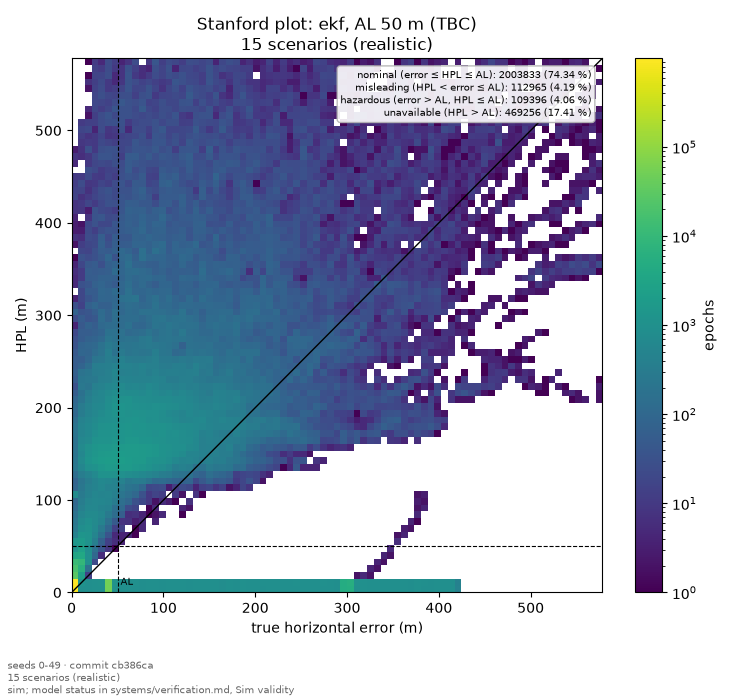
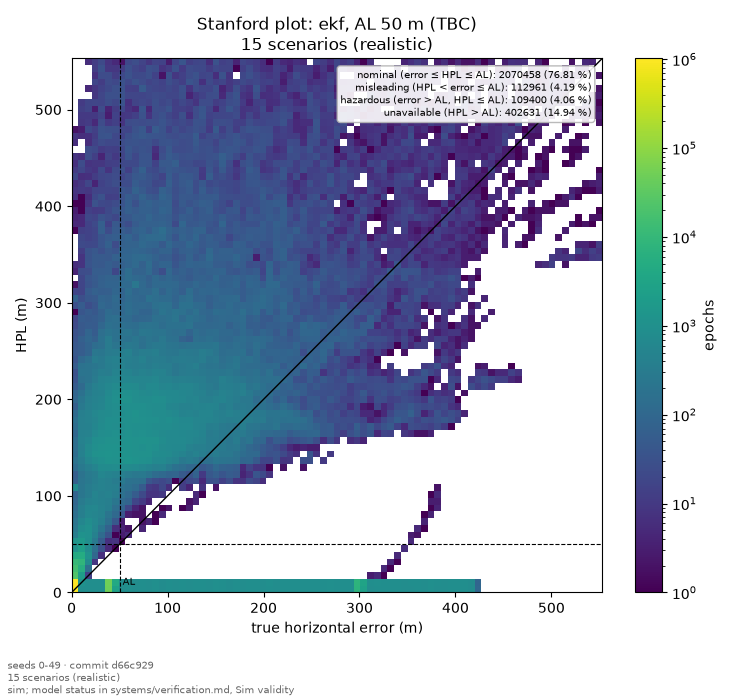
docs(analysis): add the 50-seed results made at main d66c929
`just results 50 ekf 3` on a clean tree at origin/main d66c929: the
results table in systems/verification.md and analysis/results/final/.
Part of #27.

diff --git a/systems/verification.md b/systems/verification.md
@@ -85,7 +85,7 @@ How estimator `ekf-mhss` computes its HPL (REQ-02) and excludes faults (REQ-04).
 ## Results
 
 <!-- results:start -->
-Estimator: `ekf`. Commit `b74010e`, 2026-11-11 16:54. Regenerate with `just results`.
+Estimator: `ekf`. Commit `d66c929`, 2026-11-12 04:34. Regenerate with `just results`.
 
 | Scenario | Runs | H RMSE (m) | Fault H p95 (m) | Fault H max (m) | HPL bounds error | Misleading epochs | Spoof detect (s) | False alarms (/h) |
 | --- | --- | --- | --- | --- | --- | --- | --- | --- |
@@ -114,53 +114,55 @@ Estimator: `ekf`. Commit `b74010e`, 2026-11-11 16:54. Regenerate with `just resu
 | `uc01-drone-circuit-with-base` | 50 | 6.5 | 19.3 | 37.9 | 100.0 % (worst run) | 0 (mean) | — | 0.0 |
 | `uc02-yow-approach` | 50 | 17.9 | 45.6 | 102.9 | 100.0 % (worst run) | 0 (mean) | — | 0.0 |
 | `uc02-yow-approach-adsb` | 50 | 1.7 | nan | nan | 100.0 % (worst run) | 0 (mean) | — | 0.0 |
-| `uc02-yow-approach-adsb-jammed` | 50 | 15.8 | 37.6 | 144.9 | 100.0 % (worst run) | 0 (mean) | — | 0.3 |
+| `uc02-yow-approach-adsb-jammed` | 50 | 15.8 | 37.6 | 144.9 | 100.0 % (worst run) | 0 (mean) | — | 0.0 |
 | `uc02-yow-approach-adsb-spoofed` | 50 | 15.1 | 39.0 | 144.9 | 100.0 % (worst run) | 0 (mean) | — | 12.9 |
 | `uc02-yow-approach-vor` | 50 | 17.3 | 44.1 | 92.8 | 100.0 % (worst run) | 0 (mean) | — | 0.0 |
 | `vehicle-street-grid` | 50 | 13.2 | 38.0 | 76.1 | 97.6 % (worst run) | 4 (mean) | — | 0.0 |
 | `challenge-approach-nominal` | 50 | 1.6 | nan | nan | 100.0 % (worst run) | 0 (mean) | — | 0.0 |
-| `challenge-approach-outage` | 50 | 1705.0 | 3750.9 | 10283.5 | 60.3 % (worst run) | 0 (mean) | — | 3.9 |
+| `challenge-approach-outage` | 50 | 1704.8 | 3750.7 | 10283.5 | 60.3 % (worst run) | 0 (mean) | — | 3.9 |
 | `challenge-approach-spoof-ramp` | 50 | 585.6 | 1082.9 | 1142.8 | 21.2 % (worst run) | 5664 (mean) | — | 0.0 |
 | `challenge-approach-spoof-jump` | 50 | 505.1 | 1148.0 | 3060.8 | 27.0 % (worst run) | 331 (mean) | 1.1 (100 % of runs) | 0.0 |
 | `challenge-approach-time-spoof` | 50 | 1.6 | 2.8 | 5.9 | 100.0 % (worst run) | 0 (mean) | 3.3 (100 % of runs) | 0.0 |
-| `challenge-approach-meaconing` | 50 | 439.2 | 900.4 | 2876.2 | 33.0 % (worst run) | 3746 (mean) | 1.1 (100 % of runs) | 0.0 |
+| `challenge-approach-meaconing` | 50 | 398.9 | 795.9 | 2876.2 | 28.1 % (worst run) | 4454 (mean) | 1.1 (100 % of runs) | 0.0 |
 | `challenge-approach-jamming-zone` | 50 | 91.5 | 247.4 | 1278.5 | 88.1 % (worst run) | 0 (mean) | — | 1.7 |
-| `challenge-approach-outage-tower-clock-step` | 50 | 2881.9 | 6279.1 | 15843.5 | 50.1 % (worst run) | 2 (mean) | — | 4.8 |
-| `challenge-approach-outage-tower-holdover` | 50 | 1886.9 | 4380.9 | 10727.9 | 63.1 % (worst run) | 0 (mean) | — | 4.0 |
-| `challenge-approach-outage-imu-bias` | 50 | 1705.0 | 3886.2 | 10283.5 | 60.3 % (worst run) | 0 (mean) | — | 3.9 |
-| `challenge-approach-outage-baro-drift` | 50 | 1722.0 | 3943.9 | 10174.1 | 60.3 % (worst run) | 0 (mean) | — | 5.0 |
+| `challenge-approach-outage-tower-clock-step` | 50 | 2881.8 | 6279.1 | 15843.5 | 50.1 % (worst run) | 2 (mean) | — | 4.8 |
+| `challenge-approach-outage-tower-holdover` | 50 | 1886.7 | 4380.5 | 10727.9 | 63.1 % (worst run) | 0 (mean) | — | 3.9 |
+| `challenge-approach-outage-imu-bias` | 50 | 1704.8 | 3886.0 | 10283.5 | 60.3 % (worst run) | 0 (mean) | — | 3.9 |
+| `challenge-approach-outage-baro-drift` | 50 | 1706.0 | 3887.8 | 10174.1 | 60.3 % (worst run) | 0 (mean) | — | 4.1 |
 | `challenge-drone-nominal` | 50 | 1.7 | nan | nan | 100.0 % (worst run) | 0 (mean) | — | 0.0 |
-| `challenge-drone-outage` | 50 | 8140.8 | 14176.1 | 46828.0 | 12.8 % (worst run) | 7 (mean) | — | 4.1 |
+| `challenge-drone-outage` | 50 | 8138.7 | 14172.0 | 46828.0 | 12.8 % (worst run) | 7 (mean) | — | 4.0 |
 | `challenge-drone-spoof-ramp` | 50 | 585.6 | 1082.9 | 1143.3 | 21.2 % (worst run) | 5662 (mean) | — | 0.0 |
 | `challenge-drone-spoof-jump` | 50 | 431.4 | 646.5 | 15380.8 | 24.2 % (worst run) | 5244 (mean) | 1.1 (100 % of runs) | 0.0 |
+| `challenge-drone-gps-return` | 50 | 851.4 | 328.5 | 838.2 | 28.6 % (worst run) | 252 (mean) | 1.1 (100 % of runs) | 4.9 |
 | `challenge-drone-time-spoof` | 50 | 1.7 | 2.9 | 6.0 | 100.0 % (worst run) | 0 (mean) | 3.3 (100 % of runs) | 0.0 |
 | `challenge-drone-meaconing` | 50 | 35.5 | 41.9 | 47.1 | 21.3 % (worst run) | 5650 (mean) | 1.1 (100 % of runs) | 0.0 |
-| `challenge-drone-jamming-zone` | 50 | 172.6 | 402.3 | 11428.5 | 62.6 % (worst run) | 23 (mean) | — | 0.6 |
-| `challenge-drone-outage-tower-clock-step` | 50 | 7659.1 | 15091.9 | 54099.7 | 12.8 % (worst run) | 7 (mean) | — | 3.9 |
-| `challenge-drone-outage-tower-holdover` | 50 | 8140.4 | 16108.7 | 55473.7 | 12.8 % (worst run) | 8 (mean) | — | 3.9 |
-| `challenge-drone-outage-imu-bias` | 50 | 8140.8 | 16139.6 | 54190.4 | 12.8 % (worst run) | 7 (mean) | — | 4.1 |
-| `challenge-drone-outage-baro-drift` | 50 | 8243.6 | 16517.1 | 54152.1 | 12.8 % (worst run) | 6 (mean) | — | 5.0 |
+| `challenge-drone-jamming-zone` | 50 | 172.4 | 401.7 | 11428.5 | 62.6 % (worst run) | 22 (mean) | — | 0.5 |
+| `challenge-drone-outage-tower-clock-step` | 50 | 7657.0 | 15087.7 | 54099.7 | 12.8 % (worst run) | 7 (mean) | — | 3.8 |
+| `challenge-drone-outage-tower-holdover` | 50 | 8138.4 | 16104.6 | 55473.7 | 12.8 % (worst run) | 8 (mean) | — | 3.8 |
+| `challenge-drone-outage-imu-bias` | 50 | 8138.7 | 16135.5 | 54190.4 | 12.8 % (worst run) | 7 (mean) | — | 4.0 |
+| `challenge-drone-outage-baro-drift` | 50 | 8093.4 | 16093.5 | 54152.1 | 12.8 % (worst run) | 6 (mean) | — | 3.7 |
 | `challenge-drone-hop-nominal` | 50 | 1.7 | nan | nan | 100.0 % (worst run) | 0 (mean) | — | 0.0 |
 | `challenge-drone-hop-outage` | 50 | 8544.3 | 14647.2 | 37160.0 | 10.0 % (worst run) | 23 (mean) | — | 3.6 |
 | `challenge-drone-hop-spoof-ramp` | 50 | 585.6 | 1082.9 | 1143.3 | 21.2 % (worst run) | 5662 (mean) | — | 0.0 |
 | `challenge-drone-hop-spoof-jump` | 50 | 960.9 | 1795.1 | 28597.2 | 21.7 % (worst run) | 4621 (mean) | 1.1 (100 % of runs) | 0.0 |
+| `challenge-drone-hop-gps-return` | 50 | 1160.6 | 353.6 | 899.1 | 21.7 % (worst run) | 217 (mean) | 1.1 (100 % of runs) | 4.3 |
 | `challenge-drone-hop-time-spoof` | 50 | 1.7 | 2.9 | 5.8 | 100.0 % (worst run) | 0 (mean) | 3.3 (100 % of runs) | 0.0 |
 | `challenge-drone-hop-meaconing` | 50 | 359.7 | 725.0 | 28597.2 | 21.3 % (worst run) | 5428 (mean) | 1.1 (100 % of runs) | 0.0 |
 | `challenge-drone-hop-jamming-zone` | 50 | 754.5 | 1454.5 | 39088.8 | 2.5 % (worst run) | 28 (mean) | — | 0.9 |
-| `challenge-drone-hop-outage-tower-clock-step` | 50 | 8666.7 | 16986.2 | 43100.6 | 10.0 % (worst run) | 20 (mean) | — | 3.7 |
+| `challenge-drone-hop-outage-tower-clock-step` | 50 | 8666.7 | 16986.1 | 43100.6 | 10.0 % (worst run) | 20 (mean) | — | 3.7 |
 | `challenge-drone-hop-outage-tower-holdover` | 50 | 7770.9 | 15016.4 | 42919.6 | 10.0 % (worst run) | 20 (mean) | — | 3.7 |
-| `challenge-drone-hop-outage-imu-bias` | 50 | 8544.3 | 16758.6 | 43100.6 | 10.0 % (worst run) | 23 (mean) | — | 3.6 |
-| `challenge-drone-hop-outage-baro-drift` | 50 | 8461.6 | 16659.1 | 43092.3 | 10.0 % (worst run) | 22 (mean) | — | 5.0 |
+| `challenge-drone-hop-outage-imu-bias` | 50 | 8544.3 | 16758.7 | 43100.6 | 10.0 % (worst run) | 23 (mean) | — | 3.6 |
+| `challenge-drone-hop-outage-baro-drift` | 50 | 8275.0 | 16156.8 | 43092.3 | 10.0 % (worst run) | 22 (mean) | — | 3.5 |
 | `challenge-timing-nominal` | 50 | 1.6 | nan | nan | 100.0 % (worst run) | 0 (mean) | — | 0.0 |
-| `challenge-timing-outage` | 50 | 6259.6 | 11041.3 | 36429.7 | 14.0 % (worst run) | 0 (mean) | — | 3.2 |
+| `challenge-timing-outage` | 50 | 6275.7 | 11072.5 | 36429.7 | 14.0 % (worst run) | 0 (mean) | — | 3.2 |
 | `challenge-timing-spoof-ramp` | 50 | 585.6 | 1082.9 | 1142.8 | 21.2 % (worst run) | 5664 (mean) | — | 0.0 |
 | `challenge-timing-spoof-jump` | 50 | 305.7 | 455.1 | 5755.9 | 23.7 % (worst run) | 5317 (mean) | 1.1 (100 % of runs) | 0.0 |
 | `challenge-timing-time-spoof` | 50 | 1.6 | 2.8 | 5.8 | 100.0 % (worst run) | 0 (mean) | 3.3 (100 % of runs) | 0.0 |
 | `challenge-timing-meaconing` | 50 | 1.6 | 2.8 | 5.8 | 100.0 % (worst run) | 0 (mean) | 1.1 (100 % of runs) | 0.0 |
-| `challenge-timing-outage-tower-clock-step` | 50 | 6293.7 | 12396.4 | 35206.2 | 13.8 % (worst run) | 0 (mean) | — | 3.2 |
-| `challenge-timing-outage-tower-holdover` | 50 | 6222.0 | 12364.4 | 37092.1 | 18.9 % (worst run) | 0 (mean) | — | 3.2 |
-| `challenge-timing-outage-imu-bias` | 50 | 6259.6 | 12600.2 | 41169.0 | 14.0 % (worst run) | 0 (mean) | — | 3.2 |
-| `challenge-timing-outage-baro-drift` | 50 | 6738.7 | 13339.8 | 41220.3 | 14.0 % (worst run) | 0 (mean) | — | 5.0 |
+| `challenge-timing-outage-tower-clock-step` | 50 | 6310.1 | 12439.8 | 35206.2 | 13.8 % (worst run) | 0 (mean) | — | 3.2 |
+| `challenge-timing-outage-tower-holdover` | 50 | 6238.2 | 12407.4 | 37092.1 | 18.9 % (worst run) | 0 (mean) | — | 3.2 |
+| `challenge-timing-outage-imu-bias` | 50 | 6275.7 | 12643.0 | 41169.0 | 14.0 % (worst run) | 0 (mean) | — | 3.2 |
+| `challenge-timing-outage-baro-drift` | 50 | 6481.7 | 12978.6 | 41220.3 | 14.0 % (worst run) | 0 (mean) | — | 3.2 |
 | `easy-nominal` | 50 | 1.7 | nan | nan | 100.0 % (worst run) | 0 (mean) | — | 0.0 |
 | `easy-outage` | 50 | 7.4 | 22.2 | 59.9 | 100.0 % (worst run) | 0 (mean) | — | 0.0 |
 | `easy-gps-no-fix` | 50 | 7.4 | 22.2 | 59.9 | 100.0 % (worst run) | 0 (mean) | — | 0.0 |
@@ -171,7 +173,7 @@ Estimator: `ekf`. Commit `b74010e`, 2026-11-11 16:54. Regenerate with `just resu
 | `easy-time-spoof` | 50 | 1.7 | 2.9 | 5.6 | 100.0 % (worst run) | 0 (mean) | 3.2 (100 % of runs) | 0.0 |
 | `easy-meaconing` | 50 | 29.7 | 41.7 | 46.6 | 42.9 % (worst run) | 1996 (mean) | 1.1 (100 % of runs) | 0.0 |
 | `easy-jamming-zone` | 50 | 6.1 | 12.8 | 85.4 | 100.0 % (worst run) | 0 (mean) | — | 0.0 |
-| `easy-baro-drift` | 50 | 7.2 | 18.1 | 39.7 | 100.0 % (worst run) | 0 (mean) | — | 85.6 |
+| `easy-baro-drift` | 50 | 1.7 | 2.9 | 5.6 | 100.0 % (worst run) | 0 (mean) | — | 0.0 |
 | `easy-tower-loss` | 50 | 1.7 | 2.9 | 5.6 | 100.0 % (worst run) | 0 (mean) | — | 0.0 |
 | `easy-tower-clock-step` | 50 | 1.7 | 2.9 | 5.6 | 100.0 % (worst run) | 0 (mean) | — | 0.0 |
 | `easy-long-outage` | 50 | 11.7 | 22.6 | 65.7 | 100.0 % (worst run) | 0 (mean) | — | 0.0 |
@@ -186,7 +188,7 @@ Estimator: `ekf`. Commit `b74010e`, 2026-11-11 16:54. Regenerate with `just resu
 | `realistic-time-spoof` | 50 | 1.7 | 3.0 | 5.7 | 100.0 % (worst run) | 0 (mean) | 3.2 (100 % of runs) | 0.0 |
 | `realistic-meaconing` | 50 | 30.7 | 45.4 | 244.6 | 42.7 % (worst run) | 2041 (mean) | 1.1 (100 % of runs) | 0.0 |
 | `realistic-jamming-zone` | 50 | 19.5 | 47.5 | 226.5 | 94.4 % (worst run) | 0 (mean) | — | 0.4 |
-| `realistic-baro-drift` | 50 | 71.8 | 200.8 | 976.2 | 78.1 % (worst run) | 0 (mean) | — | 78.2 |
+| `realistic-baro-drift` | 50 | 1.7 | 3.0 | 5.7 | 100.0 % (worst run) | 0 (mean) | — | 0.0 |
 | `realistic-tower-loss` | 50 | 1.7 | 2.9 | 5.6 | 100.0 % (worst run) | 0 (mean) | — | 0.0 |
 | `realistic-tower-clock-step` | 50 | 1.7 | 3.0 | 5.6 | 100.0 % (worst run) | 0 (mean) | — | 0.0 |
 | `realistic-long-outage` | 50 | 154.4 | 331.7 | 906.2 | 69.2 % (worst run) | 0 (mean) | — | 0.0 |
@@ -201,7 +203,7 @@ Estimator: `ekf`. Commit `b74010e`, 2026-11-11 16:54. Regenerate with `just resu
 | `realistic-with-base-time-spoof` | 50 | 1.7 | 3.0 | 5.7 | 100.0 % (worst run) | 0 (mean) | 3.2 (100 % of runs) | 0.0 |
 | `realistic-with-base-meaconing` | 50 | 30.7 | 45.4 | 244.6 | 42.7 % (worst run) | 2041 (mean) | 1.1 (100 % of runs) | 0.0 |
 | `realistic-with-base-jamming-zone` | 50 | 19.5 | 47.5 | 226.5 | 94.4 % (worst run) | 0 (mean) | — | 0.4 |
-| `realistic-with-base-baro-drift` | 50 | 71.8 | 200.8 | 976.2 | 78.1 % (worst run) | 0 (mean) | — | 78.2 |
+| `realistic-with-base-baro-drift` | 50 | 1.7 | 3.0 | 5.7 | 100.0 % (worst run) | 0 (mean) | — | 0.0 |
 | `realistic-with-base-tower-loss` | 50 | 1.7 | 2.9 | 5.6 | 100.0 % (worst run) | 0 (mean) | — | 0.0 |
 | `realistic-with-base-tower-clock-step` | 50 | 1.7 | 3.0 | 5.6 | 100.0 % (worst run) | 0 (mean) | — | 0.0 |
 | `realistic-with-base-long-outage` | 50 | 154.4 | 331.7 | 906.2 | 69.2 % (worst run) | 0 (mean) | — | 0.0 |
@@ -220,7 +222,7 @@ Estimator: `ekf`. Commit `b74010e`, 2026-11-11 16:54. Regenerate with `just resu
 | `worst-time-spoof` | 50 | 1.7 | 3.0 | 5.7 | 100.0 % (worst run) | 0 (mean) | 3.2 (100 % of runs) | 0.0 |
 | `worst-meaconing` | 50 | 30.2 | 42.0 | 54.6 | 42.7 % (worst run) | 2043 (mean) | 1.1 (100 % of runs) | 0.0 |
 | `worst-jamming-zone` | 50 | 103.3 | 212.4 | 2541.9 | 46.6 % (worst run) | 0 (mean) | — | 3.3 |
-| `worst-baro-drift` | 50 | 394.6 | 1058.1 | 3260.0 | 66.7 % (worst run) | 0 (mean) | — | 77.2 |
+| `worst-baro-drift` | 50 | 1.7 | 3.0 | 5.6 | 100.0 % (worst run) | 0 (mean) | — | 0.0 |
 | `worst-tower-loss` | 50 | 1.7 | 2.9 | 5.6 | 100.0 % (worst run) | 0 (mean) | — | 0.0 |
 | `worst-tower-clock-step` | 50 | 1.7 | 3.0 | 5.6 | 100.0 % (worst run) | 0 (mean) | — | 0.0 |
 | `worst-long-outage` | 50 | 1063.3 | 2067.9 | 5465.2 | 27.2 % (worst run) | 0 (mean) | — | 0.0 |
@@ -244,11 +246,11 @@ Report card. Alert limits (TBC): position 50 m, time 1.5 µs. Hazardous: error o
 | `ottawa-towers` | jamming / denial | 0 | — | — | 1.9 / 1.9 (100 % of runs) | 0 (3 / 0) |
 | `p12-drone-map-handoff` | none | 0 | 100.0 % | 0 / 0 | — | — |
 | `p12-drone-map-handoff-spoof-jump` | position spoof | 2278 | 100.0 % | 0 / 0 | 0.1 / 0.1 (100 % of runs) | 1 (1 / —), recovery untested |
-| `p12-drone-map-handoff-spoof-ramp` | position spoof | 4850 | 100.0 % | 0 / 0 | 68.6 / 459.7 (96 % of runs) | 1 (1 / —), recovery untested |
+| `p12-drone-map-handoff-spoof-ramp` | position spoof | 4850 | 100.0 % | 0 / 0 | 86.8 / 459.7 (96 % of runs) | 1 (1 / —), recovery untested |
 | `residual-map` | jamming / denial | 5 | — | — | 1.9 / 1.9 (100 % of runs) | 0 (1 / 0) |
 | `spoof-jump` | position spoof | 0 | — | — | 0.1 / 0.1 (100 % of runs) | 1 (1 / —), recovery untested |
 | `spoof-jump-sky` | position spoof, sky spoof (advisory check) | 0 | — | — | 0.1 / 0.1 (100 % of runs) | 1 (1 / —), recovery untested |
-| `spoof-ramp` | position spoof | 1621 | — | — | 27.0 / 126.7 (100 % of runs) | 1 (1 / —), recovery untested |
+| `spoof-ramp` | position spoof | 1621 | — | — | 31.2 / 175.7 (100 % of runs) | 1 (1 / —), recovery untested |
 | `starlink-outage` | jamming / denial | 0 | — | — | 1.9 / 1.9 (100 % of runs) | 0 (3 / 0) |
 | `time-spoof` | time spoof | 0 | 98.5 % | 5 / 0 | 1.5 / 2.5 (100 % of runs) | 3 (— / 3), recovery untested |
 | `uc01-drone-circuit` | jamming / denial | 0 | — | — | 1.9 / 1.9 (100 % of runs) | 0 (3 / 0) |
@@ -260,61 +262,63 @@ Report card. Alert limits (TBC): position 50 m, time 1.5 µs. Hazardous: error o
 | `uc02-yow-approach-vor` | jamming / denial | 0 | — | — | 1.9 / 1.9 (100 % of runs) | 0 (2 / 0), recovery untested |
 | `vehicle-street-grid` | jamming / denial | 1 | — | — | 1.9 / 1.9 (100 % of runs) | 0 (1 / 0) |
 | `challenge-approach-nominal` | none | 0 | 100.0 % | 0 / 0 | — | — |
-| `challenge-approach-outage` | jamming / denial | 0 | 69.0 % | 22 / 19 | 1.9 / 1.9 (98 % of runs) | 0 (0 / 0) |
-| `challenge-approach-spoof-ramp` | position spoof | 5450 | 100.0 % | 0 / 0 | 71.0 / 422.5 (96 % of runs) | 1 (1 / —), recovery untested |
+| `challenge-approach-outage` | jamming / denial | 0 | 69.0 % | 22 / 19 | 1.9 / 1.9 (100 % of runs) | 0 (0 / 0) |
+| `challenge-approach-spoof-ramp` | position spoof | 5450 | 100.0 % | 0 / 0 | 77.3 / 422.5 (96 % of runs) | 1 (1 / —), recovery untested |
 | `challenge-approach-spoof-jump` | position spoof | 331 | 100.0 % | 0 / 0 | 0.1 / 0.1 (100 % of runs) | 1 (1 / —), recovery untested |
-| `challenge-approach-time-spoof` | time spoof | 0 | 51.3 % | 801 / 0 | 1.5 / 2.5 (100 % of runs) | 3 (— / 3), recovery untested |
-| `challenge-approach-meaconing` | meaconing / replay | 3746 | 33.0 % | 4116 / 72 | 0.1 / 0.1 (100 % of runs) | 1 (1 / 1), recovery untested |
+| `challenge-approach-time-spoof` | time spoof | 0 | 51.2 % | 801 / 0 | 1.5 / 2.5 (100 % of runs) | 3 (— / 3), recovery untested |
+| `challenge-approach-meaconing` | meaconing / replay | 4454 | 28.4 % | 4476 / 7 | 0.1 / 0.1 (100 % of runs) | 1 (1 / 1), recovery untested |
 | `challenge-approach-jamming-zone` | jamming / denial | 0 | 100.0 % | 0 / 0 | — | 2 (2 / 3), recovery untested |
-| `challenge-approach-outage-tower-clock-step` | SoOP fault, jamming / denial | 0 | 65.0 % | 106 / 102 | 1.9 / 1.9 (98 % of runs) | 1 (1 / 1), recovery untested |
-| `challenge-approach-outage-tower-holdover` | SoOP fault, jamming / denial | 0 | 69.7 % | 24 / 12 | 1.9 / 484.5 (100 % of runs) | 1 (2 / 1), recovery untested |
-| `challenge-approach-outage-imu-bias` | jamming / denial, sensor degradation | 0 | 69.0 % | 22 / 19 | 1.9 / 1.9 (98 % of runs) | 1 (2 / 1), recovery untested |
-| `challenge-approach-outage-baro-drift` | jamming / denial, sensor degradation | 0 | 69.0 % | 20 / 20 | 1.9 / 1.9 (98 % of runs) | 1 (2 / 1), recovery untested |
+| `challenge-approach-outage-tower-clock-step` | SoOP fault, jamming / denial | 0 | 65.0 % | 106 / 102 | 1.9 / 1.9 (100 % of runs) | 1 (1 / 1), recovery untested |
+| `challenge-approach-outage-tower-holdover` | SoOP fault, jamming / denial | 0 | 69.7 % | 24 / 12 | 1.9 / 1.9 (100 % of runs) | 1 (2 / 1), recovery untested |
+| `challenge-approach-outage-imu-bias` | jamming / denial, sensor degradation | 0 | 69.0 % | 22 / 19 | 1.9 / 1.9 (100 % of runs) | 1 (2 / 1), recovery untested |
+| `challenge-approach-outage-baro-drift` | jamming / denial, sensor degradation | 0 | 69.0 % | 20 / 17 | 1.9 / 1.9 (100 % of runs) | 1 (2 / 1), recovery untested |
 | `challenge-drone-nominal` | none | 0 | 100.0 % | 0 / 0 | — | — |
-| `challenge-drone-outage` | jamming / denial | 6 | 100.0 % | 0 / 0 | 1.9 / 1.9 (98 % of runs) | 0 (0 / 2) |
-| `challenge-drone-spoof-ramp` | position spoof | 5449 | 100.0 % | 0 / 0 | 78.9 / 562.3 (98 % of runs) | 1 (1 / —), recovery untested |
+| `challenge-drone-outage` | jamming / denial | 6 | 100.0 % | 0 / 0 | 1.9 / 1.9 (100 % of runs) | 0 (0 / 2) |
+| `challenge-drone-spoof-ramp` | position spoof | 5449 | 100.0 % | 0 / 0 | 83.4 / 562.3 (96 % of runs) | 1 (1 / —), recovery untested |
 | `challenge-drone-spoof-jump` | position spoof | 5244 | 100.0 % | 0 / 0 | 0.1 / 0.1 (100 % of runs) | 1 (1 / —), recovery untested |
+| `challenge-drone-gps-return` | position spoof | 252 | 100.0 % | 0 / 0 | 0.1 / 0.1 (100 % of runs) | 0 (0 / —) |
 | `challenge-drone-time-spoof` | time spoof | 0 | 98.5 % | 15 / 0 | 1.5 / 2.5 (100 % of runs) | 2 (— / 2), recovery untested |
 | `challenge-drone-meaconing` | meaconing / replay | 0 | 100.0 % | 0 / 0 | 0.1 / 0.1 (100 % of runs) | 3 (3 / 3), recovery untested |
-| `challenge-drone-jamming-zone` | jamming / denial | 10 | 100.0 % | 0 / 0 | — | 1 (1 / 3), recovery untested |
-| `challenge-drone-outage-tower-clock-step` | SoOP fault, jamming / denial | 6 | 100.0 % | 0 / 0 | 1.9 / 484.5 (100 % of runs) | 1 (1 / 2), recovery untested |
-| `challenge-drone-outage-tower-holdover` | SoOP fault, jamming / denial | 7 | 100.0 % | 0 / 0 | 1.9 / 484.5 (100 % of runs) | 1 (1 / 2), recovery untested |
-| `challenge-drone-outage-imu-bias` | jamming / denial, sensor degradation | 6 | 100.0 % | 0 / 0 | 1.9 / 484.5 (100 % of runs) | 1 (1 / 2), recovery untested |
-| `challenge-drone-outage-baro-drift` | jamming / denial, sensor degradation | 6 | 100.0 % | 0 / 0 | 1.9 / 1.9 (98 % of runs) | 1 (1 / 2), recovery untested |
+| `challenge-drone-jamming-zone` | jamming / denial | 8 | 100.0 % | 0 / 0 | — | 1 (1 / 3), recovery untested |
+| `challenge-drone-outage-tower-clock-step` | SoOP fault, jamming / denial | 6 | 100.0 % | 0 / 0 | 1.9 / 1.9 (100 % of runs) | 1 (1 / 2), recovery untested |
+| `challenge-drone-outage-tower-holdover` | SoOP fault, jamming / denial | 7 | 100.0 % | 0 / 0 | 1.9 / 1.9 (100 % of runs) | 1 (1 / 2), recovery untested |
+| `challenge-drone-outage-imu-bias` | jamming / denial, sensor degradation | 6 | 100.0 % | 0 / 0 | 1.9 / 1.9 (100 % of runs) | 1 (1 / 2), recovery untested |
+| `challenge-drone-outage-baro-drift` | jamming / denial, sensor degradation | 6 | 100.0 % | 0 / 0 | 1.9 / 1.9 (100 % of runs) | 1 (1 / 2), recovery untested |
 | `challenge-drone-hop-nominal` | none | 0 | 100.0 % | 0 / 0 | — | — |
-| `challenge-drone-hop-outage` | jamming / denial | 22 | 100.0 % | 0 / 0 | 1.9 / 1.9 (98 % of runs) | 0 (0 / 2) |
-| `challenge-drone-hop-spoof-ramp` | position spoof | 5449 | 100.0 % | 0 / 0 | 78.9 / 562.3 (98 % of runs) | 1 (1 / —), recovery untested |
+| `challenge-drone-hop-outage` | jamming / denial | 22 | 100.0 % | 0 / 0 | 1.9 / 1.9 (100 % of runs) | 0 (0 / 2) |
+| `challenge-drone-hop-spoof-ramp` | position spoof | 5449 | 100.0 % | 0 / 0 | 83.4 / 562.3 (96 % of runs) | 1 (1 / —), recovery untested |
 | `challenge-drone-hop-spoof-jump` | position spoof | 4620 | 100.0 % | 0 / 0 | 0.1 / 0.1 (100 % of runs) | 1 (1 / —), recovery untested |
+| `challenge-drone-hop-gps-return` | position spoof | 217 | 100.0 % | 0 / 0 | 0.1 / 0.1 (100 % of runs) | 0 (0 / —) |
 | `challenge-drone-hop-time-spoof` | time spoof | 0 | 98.5 % | 15 / 0 | 1.5 / 2.5 (100 % of runs) | 2 (— / 2), recovery untested |
 | `challenge-drone-hop-meaconing` | meaconing / replay | 4 | 100.0 % | 0 / 0 | 0.1 / 0.1 (100 % of runs) | 1 (1 / 3), recovery untested |
 | `challenge-drone-hop-jamming-zone` | jamming / denial | 21 | 100.0 % | 0 / 0 | — | 1 (1 / 3), recovery untested |
-| `challenge-drone-hop-outage-tower-clock-step` | SoOP fault, jamming / denial | 20 | 100.0 % | 0 / 0 | 1.9 / 1.9 (98 % of runs) | 1 (1 / 2), recovery untested |
-| `challenge-drone-hop-outage-tower-holdover` | SoOP fault, jamming / denial | 20 | 100.0 % | 0 / 0 | 1.9 / 1.9 (98 % of runs) | 1 (1 / 2), recovery untested |
-| `challenge-drone-hop-outage-imu-bias` | jamming / denial, sensor degradation | 22 | 100.0 % | 0 / 0 | 1.9 / 1.9 (98 % of runs) | 1 (1 / 2), recovery untested |
-| `challenge-drone-hop-outage-baro-drift` | jamming / denial, sensor degradation | 21 | 100.0 % | 0 / 0 | 1.9 / 1.9 (98 % of runs) | 1 (1 / 2), recovery untested |
+| `challenge-drone-hop-outage-tower-clock-step` | SoOP fault, jamming / denial | 20 | 100.0 % | 0 / 0 | 1.9 / 1.9 (100 % of runs) | 1 (1 / 2), recovery untested |
+| `challenge-drone-hop-outage-tower-holdover` | SoOP fault, jamming / denial | 20 | 100.0 % | 0 / 0 | 1.9 / 1.9 (100 % of runs) | 1 (1 / 2), recovery untested |
+| `challenge-drone-hop-outage-imu-bias` | jamming / denial, sensor degradation | 22 | 100.0 % | 0 / 0 | 1.9 / 1.9 (100 % of runs) | 1 (1 / 2), recovery untested |
+| `challenge-drone-hop-outage-baro-drift` | jamming / denial, sensor degradation | 21 | 100.0 % | 0 / 0 | 1.9 / 1.9 (100 % of runs) | 1 (1 / 2), recovery untested |
 | `challenge-timing-nominal` | none | 0 | 100.0 % | 0 / 0 | — | — |
-| `challenge-timing-outage` | jamming / denial | 0 | 100.0 % | 0 / 0 | 1.9 / 1.9 (98 % of runs) | 0 (0 / 2) |
-| `challenge-timing-spoof-ramp` | position spoof | 5450 | 100.0 % | 0 / 0 | 78.9 / 562.3 (98 % of runs) | 1 (1 / —), recovery untested |
+| `challenge-timing-outage` | jamming / denial | 0 | 100.0 % | 0 / 0 | 1.9 / 1.9 (100 % of runs) | 0 (0 / 2) |
+| `challenge-timing-spoof-ramp` | position spoof | 5450 | 100.0 % | 0 / 0 | 88.4 / 562.3 (96 % of runs) | 1 (1 / —), recovery untested |
 | `challenge-timing-spoof-jump` | position spoof | 5317 | 100.0 % | 0 / 0 | 0.1 / 0.1 (100 % of runs) | 1 (1 / —), recovery untested |
 | `challenge-timing-time-spoof` | time spoof | 0 | 98.5 % | 15 / 0 | 1.5 / 2.5 (100 % of runs) | 2 (— / 2), recovery untested |
 | `challenge-timing-meaconing` | meaconing / replay | 0 | 100.0 % | 0 / 0 | 0.1 / 0.1 (100 % of runs) | 3 (4 / 3), recovery untested |
-| `challenge-timing-outage-tower-clock-step` | SoOP fault, jamming / denial | 0 | 100.0 % | 0 / 0 | 1.9 / 1.9 (98 % of runs) | 1 (1 / 2), recovery untested |
-| `challenge-timing-outage-tower-holdover` | SoOP fault, jamming / denial | 0 | 100.0 % | 0 / 0 | 1.9 / 1.9 (98 % of runs) | 1 (1 / 2), recovery untested |
-| `challenge-timing-outage-imu-bias` | jamming / denial, sensor degradation | 0 | 100.0 % | 0 / 0 | 1.9 / 1.9 (98 % of runs) | 1 (1 / 2), recovery untested |
-| `challenge-timing-outage-baro-drift` | jamming / denial, sensor degradation | 0 | 100.0 % | 0 / 0 | 1.9 / 1.9 (98 % of runs) | 1 (1 / 2), recovery untested |
+| `challenge-timing-outage-tower-clock-step` | SoOP fault, jamming / denial | 0 | 100.0 % | 0 / 0 | 1.9 / 1.9 (100 % of runs) | 1 (1 / 2), recovery untested |
+| `challenge-timing-outage-tower-holdover` | SoOP fault, jamming / denial | 0 | 100.0 % | 0 / 0 | 1.9 / 1.9 (100 % of runs) | 1 (1 / 2), recovery untested |
+| `challenge-timing-outage-imu-bias` | jamming / denial, sensor degradation | 0 | 100.0 % | 0 / 0 | 1.9 / 1.9 (100 % of runs) | 1 (1 / 2), recovery untested |
+| `challenge-timing-outage-baro-drift` | jamming / denial, sensor degradation | 0 | 100.0 % | 0 / 0 | 1.9 / 1.9 (100 % of runs) | 1 (1 / 2), recovery untested |
 | `easy-nominal` | none | 0 | 100.0 % | 0 / 0 | — | — |
 | `easy-outage` | jamming / denial | 0 | 100.0 % | 0 / 0 | 1.9 / 1.9 (100 % of runs) | 2 (2 / 3) |
 | `easy-gps-no-fix` | receiver fault | 0 | 100.0 % | 0 / 0 | 1.9 / 1.9 (100 % of runs) | 2 (2 / 3) |
 | `easy-gps-low-sats` | nuisance (false-alarm check) | 0 | 100.0 % | 0 / 0 | — | — |
 | `easy-gps-return` | position spoof | 0 | 100.0 % | 0 / 0 | 0.1 / 0.1 (100 % of runs) | 3 (3 / —) |
-| `easy-spoof-ramp` | position spoof | 1846 | 100.0 % | 0 / 0 | 79.7 / 206.7 (86 % of runs) | 1 (1 / —), recovery untested |
+| `easy-spoof-ramp` | position spoof | 1846 | 100.0 % | 0 / 0 | 86.9 / 206.7 (82 % of runs) | 1 (1 / —), recovery untested |
 | `easy-spoof-jump` | position spoof | 0 | 100.0 % | 0 / 0 | 0.1 / 0.1 (100 % of runs) | 3 (3 / —), recovery untested |
 | `easy-time-spoof` | time spoof | 0 | 98.5 % | 5 / 0 | 1.5 / 2.5 (100 % of runs) | 3 (— / 3), recovery untested |
 | `easy-meaconing` | meaconing / replay | 0 | 64.3 % | 292 / 0 | 0.1 / 0.1 (100 % of runs) | 3 (3 / 3), recovery untested |
 | `easy-jamming-zone` | jamming / denial | 0 | 100.0 % | 0 / 0 | — | 2 (2 / 3), recovery untested |
-| `easy-baro-drift` | sensor degradation | 0 | 100.0 % | 0 / 0 | 27.2 / 45.9 (100 % of runs) | 3 (3 / —), recovery untested |
-| `easy-tower-loss` | SoOP fault | 0 | 100.0 % | 0 / 0 | 41.5 / 118.3 (60 % of runs) | 4 (4 / —) |
-| `easy-tower-clock-step` | SoOP fault | 0 | 100.0 % | 0 / 0 | 79.7 / 206.7 (86 % of runs) | 4 (4 / —), recovery untested |
+| `easy-baro-drift` | sensor degradation | 0 | 100.0 % | 0 / 0 | 46.9 / 224.7 (98 % of runs) | 4 (4 / —), recovery untested |
+| `easy-tower-loss` | SoOP fault | 0 | 100.0 % | 0 / 0 | 41.5 / 118.3 (52 % of runs) | 4 (4 / —) |
+| `easy-tower-clock-step` | SoOP fault | 0 | 100.0 % | 0 / 0 | 87.6 / 206.7 (84 % of runs) | 4 (4 / —), recovery untested |
 | `easy-long-outage` | jamming / denial | 0 | 100.0 % | 0 / 0 | 1.9 / 1.9 (100 % of runs) | 2 (2 / 3), recovery untested |
 | `easy-capture-pi4b` | board capture (false-alarm check) | 0 | 100.0 % | 0 / 0 | — | — |
 | `realistic-nominal` | none | 0 | 100.0 % | 0 / 0 | — | — |
@@ -322,14 +326,14 @@ Report card. Alert limits (TBC): position 50 m, time 1.5 µs. Hazardous: error o
 | `realistic-gps-no-fix` | receiver fault | 0 | 80.3 % | 81 / 0 | 1.9 / 1.9 (100 % of runs) | 0 (0 / 3) |
 | `realistic-gps-low-sats` | nuisance (false-alarm check) | 0 | 100.0 % | 0 / 0 | — | — |
 | `realistic-gps-return` | position spoof | 0 | 100.0 % | 0 / 0 | 0.1 / 0.1 (100 % of runs) | 0 (0 / —) |
-| `realistic-spoof-ramp` | position spoof | 1847 | 100.0 % | 0 / 0 | 67.4 / 206.7 (84 % of runs) | 1 (1 / —), recovery untested |
+| `realistic-spoof-ramp` | position spoof | 1847 | 100.0 % | 0 / 0 | 82.1 / 206.7 (82 % of runs) | 1 (1 / —), recovery untested |
 | `realistic-spoof-jump` | position spoof | 341 | 100.0 % | 0 / 0 | 0.1 / 0.1 (100 % of runs) | 1 (1 / —), recovery untested |
 | `realistic-time-spoof` | time spoof | 0 | 65.9 % | 231 / 0 | 1.5 / 2.7 (100 % of runs) | 3 (— / 3), recovery untested |
 | `realistic-meaconing` | meaconing / replay | 0 | 71.1 % | 325 / 0 | 0.1 / 0.1 (100 % of runs) | 2 (2 / 3), recovery untested |
 | `realistic-jamming-zone` | jamming / denial | 0 | 100.0 % | 0 / 0 | — | 2 (2 / 3), recovery untested |
-| `realistic-baro-drift` | sensor degradation | 0 | 100.0 % | 0 / 0 | 29.9 / 45.9 (100 % of runs) | 2 (2 / —), recovery untested |
-| `realistic-tower-loss` | SoOP fault | 0 | 100.0 % | 0 / 0 | 41.5 / 118.3 (60 % of runs) | 4 (4 / —) |
-| `realistic-tower-clock-step` | SoOP fault | 0 | 100.0 % | 0 / 0 | 79.7 / 206.7 (86 % of runs) | 4 (4 / —), recovery untested |
+| `realistic-baro-drift` | sensor degradation | 0 | 100.0 % | 0 / 0 | 44.3 / 224.7 (98 % of runs) | 4 (4 / —), recovery untested |
+| `realistic-tower-loss` | SoOP fault | 0 | 100.0 % | 0 / 0 | 41.5 / 118.3 (52 % of runs) | 4 (4 / —) |
+| `realistic-tower-clock-step` | SoOP fault | 0 | 100.0 % | 0 / 0 | 87.6 / 206.7 (84 % of runs) | 4 (4 / —), recovery untested |
 | `realistic-long-outage` | jamming / denial | 0 | 60.2 % | 268 / 0 | 1.9 / 1.9 (100 % of runs) | 2 (2 / 2), recovery untested |
 | `realistic-capture-pi4b` | board capture (false-alarm check) | 0 | 100.0 % | 0 / 0 | — | — |
 | `realistic-with-base-nominal` | none | 0 | 100.0 % | 0 / 0 | — | — |
@@ -337,14 +341,14 @@ Report card. Alert limits (TBC): position 50 m, time 1.5 µs. Hazardous: error o
 | `realistic-with-base-gps-no-fix` | receiver fault | 0 | 80.3 % | 81 / 0 | 1.9 / 1.9 (100 % of runs) | 0 (0 / 3) |
 | `realistic-with-base-gps-low-sats` | nuisance (false-alarm check) | 0 | 100.0 % | 0 / 0 | — | — |
 | `realistic-with-base-gps-return` | position spoof | 0 | 100.0 % | 0 / 0 | 0.1 / 0.1 (100 % of runs) | 0 (0 / —) |
-| `realistic-with-base-spoof-ramp` | position spoof | 1847 | 100.0 % | 0 / 0 | 67.4 / 206.7 (84 % of runs) | 1 (1 / —), recovery untested |
+| `realistic-with-base-spoof-ramp` | position spoof | 1847 | 100.0 % | 0 / 0 | 82.1 / 206.7 (82 % of runs) | 1 (1 / —), recovery untested |
 | `realistic-with-base-spoof-jump` | position spoof | 341 | 100.0 % | 0 / 0 | 0.1 / 0.1 (100 % of runs) | 1 (1 / —), recovery untested |
 | `realistic-with-base-time-spoof` | time spoof | 0 | 65.9 % | 231 / 0 | 1.5 / 2.7 (100 % of runs) | 3 (— / 3), recovery untested |
 | `realistic-with-base-meaconing` | meaconing / replay | 0 | 71.1 % | 325 / 0 | 0.1 / 0.1 (100 % of runs) | 2 (2 / 3), recovery untested |
 | `realistic-with-base-jamming-zone` | jamming / denial | 0 | 100.0 % | 0 / 0 | — | 2 (2 / 3), recovery untested |
-| `realistic-with-base-baro-drift` | sensor degradation | 0 | 100.0 % | 0 / 0 | 29.9 / 45.9 (100 % of runs) | 2 (2 / —), recovery untested |
-| `realistic-with-base-tower-loss` | SoOP fault | 0 | 100.0 % | 0 / 0 | 41.5 / 118.3 (60 % of runs) | 4 (4 / —) |
-| `realistic-with-base-tower-clock-step` | SoOP fault | 0 | 100.0 % | 0 / 0 | 79.7 / 206.7 (86 % of runs) | 4 (4 / —), recovery untested |
+| `realistic-with-base-baro-drift` | sensor degradation | 0 | 100.0 % | 0 / 0 | 44.3 / 224.7 (98 % of runs) | 4 (4 / —), recovery untested |
+| `realistic-with-base-tower-loss` | SoOP fault | 0 | 100.0 % | 0 / 0 | 41.5 / 118.3 (52 % of runs) | 4 (4 / —) |
+| `realistic-with-base-tower-clock-step` | SoOP fault | 0 | 100.0 % | 0 / 0 | 87.6 / 206.7 (84 % of runs) | 4 (4 / —), recovery untested |
 | `realistic-with-base-long-outage` | jamming / denial | 0 | 60.2 % | 268 / 0 | 1.9 / 1.9 (100 % of runs) | 2 (2 / 2), recovery untested |
 | `realistic-with-base-capture-pi4b` | board capture (false-alarm check) | 0 | 100.0 % | 0 / 0 | — | — |
 | `realistic-with-base-long-outage-tower-clock-step` | SoOP fault, jamming / denial | 0 | 35.6 % | 1399 / 4 | 1.9 / 1.9 (100 % of runs) | 1 (2 / 1), recovery untested |
@@ -356,14 +360,14 @@ Report card. Alert limits (TBC): position 50 m, time 1.5 µs. Hazardous: error o
 | `worst-gps-no-fix` | receiver fault | 1 | 58.1 % | 247 / 13 | 1.9 / 1.9 (100 % of runs) | 0 (0 / 0) |
 | `worst-gps-low-sats` | nuisance (false-alarm check) | 0 | 99.9 % | 0 / 0 | — | — |
 | `worst-gps-return` | position spoof | 35 | 99.9 % | 0 / 0 | 0.1 / 0.1 (100 % of runs) | 0 (0 / —) |
-| `worst-spoof-ramp` | position spoof | 1848 | 99.9 % | 0 / 0 | 68.9 / 206.7 (88 % of runs) | 1 (1 / —), recovery untested |
+| `worst-spoof-ramp` | position spoof | 1848 | 99.9 % | 0 / 0 | 81.1 / 206.7 (88 % of runs) | 1 (1 / —), recovery untested |
 | `worst-spoof-jump` | position spoof | 759 | 99.9 % | 0 / 0 | 0.1 / 0.1 (100 % of runs) | 1 (1 / —), recovery untested |
 | `worst-time-spoof` | time spoof | 0 | 49.2 % | 1112 / 40 | 1.5 / 2.7 (100 % of runs) | 1 (— / 1), recovery untested |
 | `worst-meaconing` | meaconing / replay | 0 | 50.3 % | 1092 / 8 | 0.1 / 0.1 (100 % of runs) | 1 (2 / 1), recovery untested |
 | `worst-jamming-zone` | jamming / denial | 0 | 99.9 % | 0 / 0 | — | 2 (2 / 3), recovery untested |
-| `worst-baro-drift` | sensor degradation | 0 | 99.9 % | 0 / 0 | 29.9 / 45.9 (100 % of runs) | 2 (2 / —), recovery untested |
-| `worst-tower-loss` | SoOP fault | 0 | 99.8 % | 0 / 0 | 47.6 / 118.3 (68 % of runs) | 4 (4 / —) |
-| `worst-tower-clock-step` | SoOP fault | 0 | 99.9 % | 0 / 0 | 68.9 / 206.7 (92 % of runs) | 4 (4 / —), recovery untested |
+| `worst-baro-drift` | sensor degradation | 0 | 99.9 % | 0 / 0 | 42.7 / 224.7 (100 % of runs) | 4 (4 / —), recovery untested |
+| `worst-tower-loss` | SoOP fault | 0 | 99.8 % | 0 / 0 | 47.6 / 118.3 (60 % of runs) | 4 (4 / —) |
+| `worst-tower-clock-step` | SoOP fault | 0 | 99.9 % | 0 / 0 | 80.0 / 206.7 (92 % of runs) | 4 (4 / —), recovery untested |
 | `worst-long-outage` | jamming / denial | 0 | 37.1 % | 316 / 44 | 1.9 / 1.9 (100 % of runs) | 1 (2 / 1), recovery untested |
 | `worst-capture-pi4b` | board capture (false-alarm check) | 0 | 99.9 % | 0 / 0 | — | — |
 

diff --git a/analysis/results/final/summary.md b/analysis/results/final/summary.md
@@ -1,6 +1,6 @@
 # Results figures: `ekf`
 
-Commit `b74010e`, seeds 0-49, sim (each model's status is in the *Sim validity* table of `systems/verification.md`). Regenerate with `just figures ekf 50` (or `just results 50 ekf` for `results/final/`).
+Commit `d66c929`, seeds 0-49, sim (each model's status is in the *Sim validity* table of `systems/verification.md`). Regenerate with `just figures ekf 50` (or `just results 50 ekf` for `results/final/`).
 
 Figures: `error_after_gps_loss.png`, `stanford.png`, `ablation.png`, `holdover.png`
 
@@ -30,12 +30,12 @@ Scored as ADR-0034's amendment says: at each second after GPS loss, the 95th per
 | `realistic-gps-no-fix` | 179950 | 120086 | 0 | 0 | 59864 |
 | `realistic-gps-low-sats` | 179950 | 179850 | 0 | 0 | 100 |
 | `realistic-gps-return` | 179950 | 155740 | 0 | 0 | 24210 |
-| `realistic-spoof-ramp` | 179950 | 76563 | 10933 | 92354 | 100 |
+| `realistic-spoof-ramp` | 179950 | 76563 | 10929 | 92358 | 100 |
 | `realistic-spoof-jump` | 179950 | 77300 | 0 | 17042 | 85608 |
 | `realistic-time-spoof` | 179950 | 179850 | 0 | 0 | 100 |
 | `realistic-meaconing` | 179950 | 77250 | 102032 | 0 | 668 |
-| `realistic-jamming-zone` | 176150 | 152181 | 0 | 0 | 23969 |
-| `realistic-baro-drift` | 179950 | 113227 | 0 | 0 | 66723 |
+| `realistic-jamming-zone` | 176150 | 152183 | 0 | 0 | 23967 |
+| `realistic-baro-drift` | 179950 | 179850 | 0 | 0 | 100 |
 | `realistic-tower-loss` | 179950 | 179850 | 0 | 0 | 100 |
 | `realistic-tower-clock-step` | 179950 | 179850 | 0 | 0 | 100 |
 | `realistic-long-outage` | 179950 | 32300 | 0 | 0 | 147650 |
